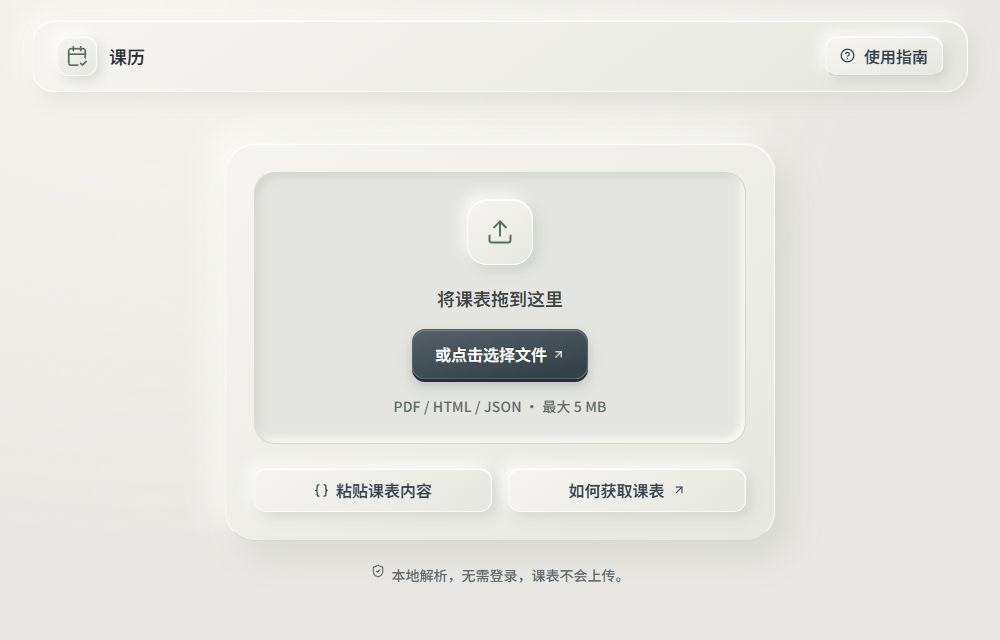
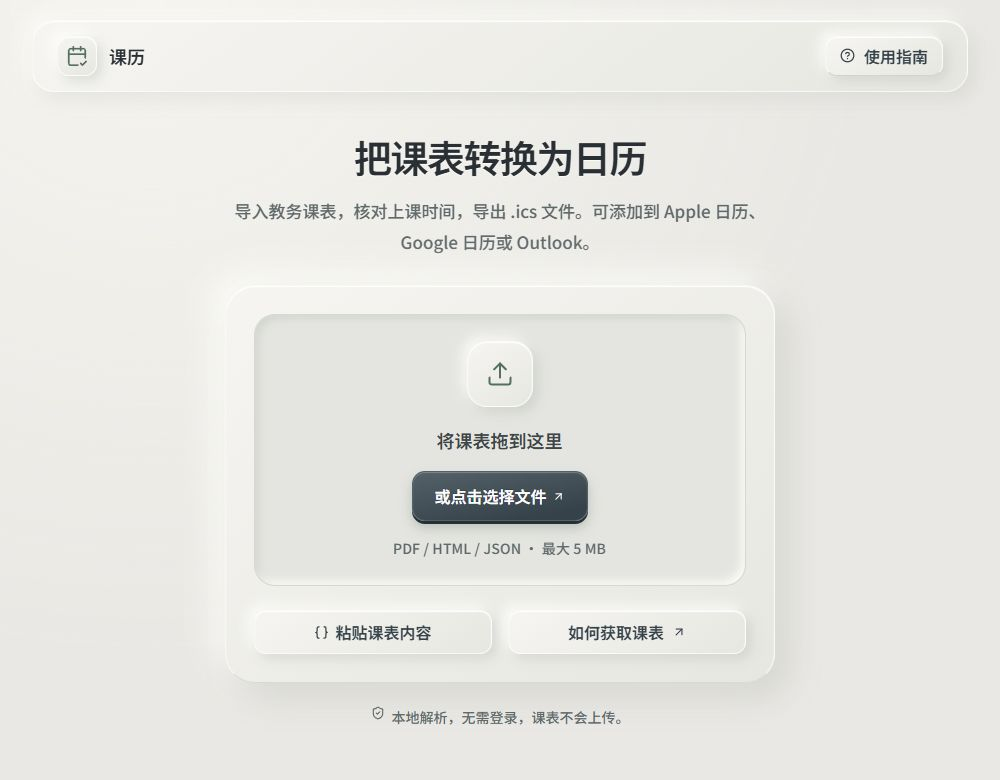
Add empty state introduction to timetable importer

diff --git a/src/styles.css b/src/styles.css
@@ -433,7 +433,10 @@ textarea { resize: vertical; line-height: 1.7; }
 /* Before import, keep the page focused on one task. */
 .product-nav.product-nav-empty { display: flex; justify-content: space-between; height: 72px; }
 .page-empty { width: min(680px, calc(100% - 32px)); }
-.page-empty .workspace-grid { display: block; max-width: 550px; margin: 0 auto; padding-top: clamp(40px, 8vh, 80px); }
+.home-intro { max-width: 550px; margin: 0 auto; padding: clamp(32px, 5vh, 56px) 0 28px; text-align: center; }
+.home-intro h1 { font-size: clamp(30px, 3.8vw, 40px); line-height: 1.35; }
+.home-intro p { margin-top: 14px; color: var(--muted); font-size: 17px; line-height: 1.8; text-wrap: pretty; }
+.page-empty .workspace-grid { display: block; max-width: 550px; margin: 0 auto; }
 .import-panel.import-panel-simple { display: block; padding: 28px; border-radius: 30px; }
 .import-panel-simple .dropzone { margin: 0; min-height: 250px; padding: 26px 12px; border-radius: 21px; }
 .import-panel-simple .dropzone strong { font-size: 18px; }
@@ -443,6 +446,7 @@ textarea { resize: vertical; line-height: 1.7; }
 .empty-privacy { display: flex; align-items: flex-start; justify-content: center; gap: 7px; margin-top: 23px; color: var(--muted); font-size: 14px; text-align: center; line-height: 1.7; }
 @media (max-width: 600px) {
   .product-nav.product-nav-empty { height: 64px; padding-block: 0; }
+  .home-intro p { font-size: 16px; }
   .import-panel.import-panel-simple { padding: 18px; }
   .import-panel-simple .dropzone { min-height: 216px; }
   .simple-import-actions { gap: 10px; margin-top: 14px; }
@@ -450,7 +454,7 @@ textarea { resize: vertical; line-height: 1.7; }
   .empty-privacy { font-size: 14px; margin-top: 19px; }
 }
 @media (prefers-reduced-motion: no-preference) {
-  .hero-copy, .workspace-grid, .settings-panel { animation: arrive 360ms var(--ease) both; }
+  .home-intro, .hero-copy, .workspace-grid, .settings-panel { animation: arrive 360ms var(--ease) both; }
   .workspace-grid { animation-delay: 50ms; }
   .dialog[open] { animation: dialog-in 180ms var(--ease) both; }
   .toast { animation: toast-in 180ms var(--ease) both; }

diff --git a/src/App.tsx b/src/App.tsx
@@ -80,7 +80,10 @@ export default function App() {
     </header>
 
     <main id="main-content" className={`main-content page-${section} ${hasCourses ? '' : 'page-empty'}`} tabIndex={-1}>
-      {section === 'timetable' && <h1 className="visually-hidden">{hasCourses ? '我的课表' : '导入课表'}</h1>}
+      {section === 'timetable' && (hasCourses ? <h1 className="visually-hidden">我的课表</h1> : <section className="home-intro" aria-labelledby="home-title">
+        <h1 id="home-title">把课表转换为日历</h1>
+        <p>导入教务课表，核对上课时间，导出 .ics 文件。可添加到 Apple 日历、Google 日历或 Outlook。</p>
+      </section>)}
       {(section !== 'timetable' || hasCourses) && <section className={`hero ${section === 'timetable' ? 'hero-actions' : ''}`}>
         {section !== 'timetable' && <div className="hero-copy"><div className="eyebrow">{PAGE_COPY[section].eyebrow}</div><h1>{PAGE_COPY[section].title}</h1><p>{PAGE_COPY[section].description}</p></div>}
         {hasCourses && <button className="button primary export-main" onClick={requestExport}><ArrowDownToLine size={17} />导出日历<span>.ics</span></button>}

diff --git a/README.md b/README.md
@@ -98,7 +98,7 @@ tests/              自动化测试与虚构样本
 
 界面使用 React、TypeScript 和 Lucide；HTML 解析使用 linkedom，PDF 读取使用 PDF.js。Vite 负责构建，Vitest 运行测试，ical.js 用于回读导出的日历。
 
-界面采用新拟物风格，以暖白陶瓷面板和石墨按键为主，输入区使用内阴影，课程卡片保留浅色底与清晰文字。字体和资源均随站点部署。默认首页只显示导入入口，导入后展示课程统计、设置和预览；支持手机布局和减少动态效果的系统设置。
+界面采用新拟物风格，以暖白陶瓷面板和石墨按键为主，输入区使用内阴影，课程卡片保留浅色底与清晰文字。字体和资源均随站点部署。默认首页显示简短用途说明和导入入口，导入后展示课程统计、设置和预览；支持手机布局和减少动态效果的系统设置。
 
 </details>
 
